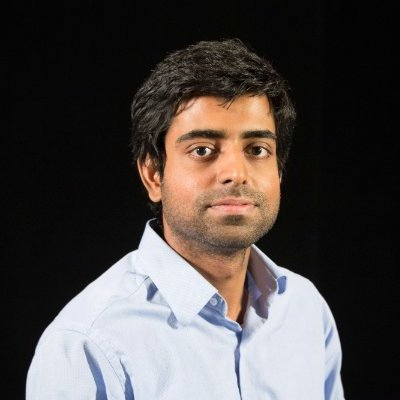
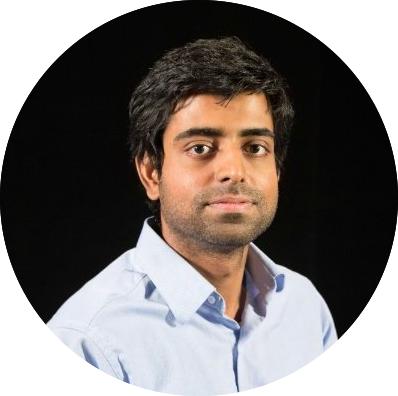
moved to header on top.

diff --git a/index.html b/index.html
@@ -19,6 +19,8 @@
 
     <!-- Custom CSS -->
     <link rel="stylesheet" href="css/custom.css">
+    <!-- Font Awesome -->
+    <link rel="stylesheet" href="https://maxcdn.bootstrapcdn.com/font-awesome/4.6.3/css/font-awesome.min.css">
 
     <!-- Latest compiled and minified JavaScript -->
     <script src="https://maxcdn.bootstrapcdn.com/bootstrap/3.3.6/js/bootstrap.min.js"
@@ -33,6 +35,24 @@
 </head>
 
 <body>
+
+<div id="header" class="header">
+    <div class="container">
+        <img class="profile-picture fixed-size pull-left" src="images/profile_picture.png"
+             alt="Sree Patlola Profile Picture">
+
+        <div class="header-text">
+            <h1 class="">Sree Patlola</h1>
+            <h4>Software Engineer, Automobile Enthusiast.</h4>
+
+            <div id="icon-sets">
+                <a href="#"><i class="fa fa-linkedin-square fa-2x"></i></a>&nbsp;
+                <a href="#"><i class="fa fa-github-square fa-2x"></i></a>&nbsp;
+                <a href="#"><i class="fa fa-envelope fa-2x"></i></a>&nbsp;
+            </div>
+        </div>
+    </div>
+</div>
 <div class="blog-masthead">
     <div class="container">
         <div class="row">
@@ -148,7 +168,8 @@
                     <div class="panel-body">
                         <h4>Education</h4>
                         <span class="glyphicon glyphicon-education"></span>&nbsp;Masters in Software Engineering
-                        &nbsp;<small>Cleveland State University</small>
+                        &nbsp;
+                        <small>Cleveland State University</small>
                     </div>
                 </div>
             </div>

diff --git a/css/custom.css b/css/custom.css
@@ -1,13 +1,33 @@
 body {
     background: #F2F2F2 !important;
     font-family: Roboto;
+    -webkit-font-smoothing: antialiased;
+    -moz-osx-font-smoothing: grayscale;
 }
 
+/*header css*/
+.header {
+    background-color: #287489 !important;
+    color: white !important;
+    margin-top: 0.25% !important;
+}
+
+.header-text{
+    margin-left: 15%;
+}
+
+.header a {
+    color: white;
+}
+
+/*end header css*/
+
 .profile-picture {
-    width: 50% !important;
-    height: 50% !important;
-    border-radius: 50% !important;
-    margin-top: 10% !important;
+    width: 10% !important;
+    height: 10% !important;
+    /*border-radius: 50% !important;*/
+    margin-top: 1% !important;
+    margin-bottom: 1% !important;
 }
 
 .sidebar-meta {
@@ -20,7 +40,7 @@ body {
     color: white !important;
 }
 
-.panel-header{
+.panel-header {
     color: #216475 !important;
     background-color: white !important;
     border-bottom: none !important;
